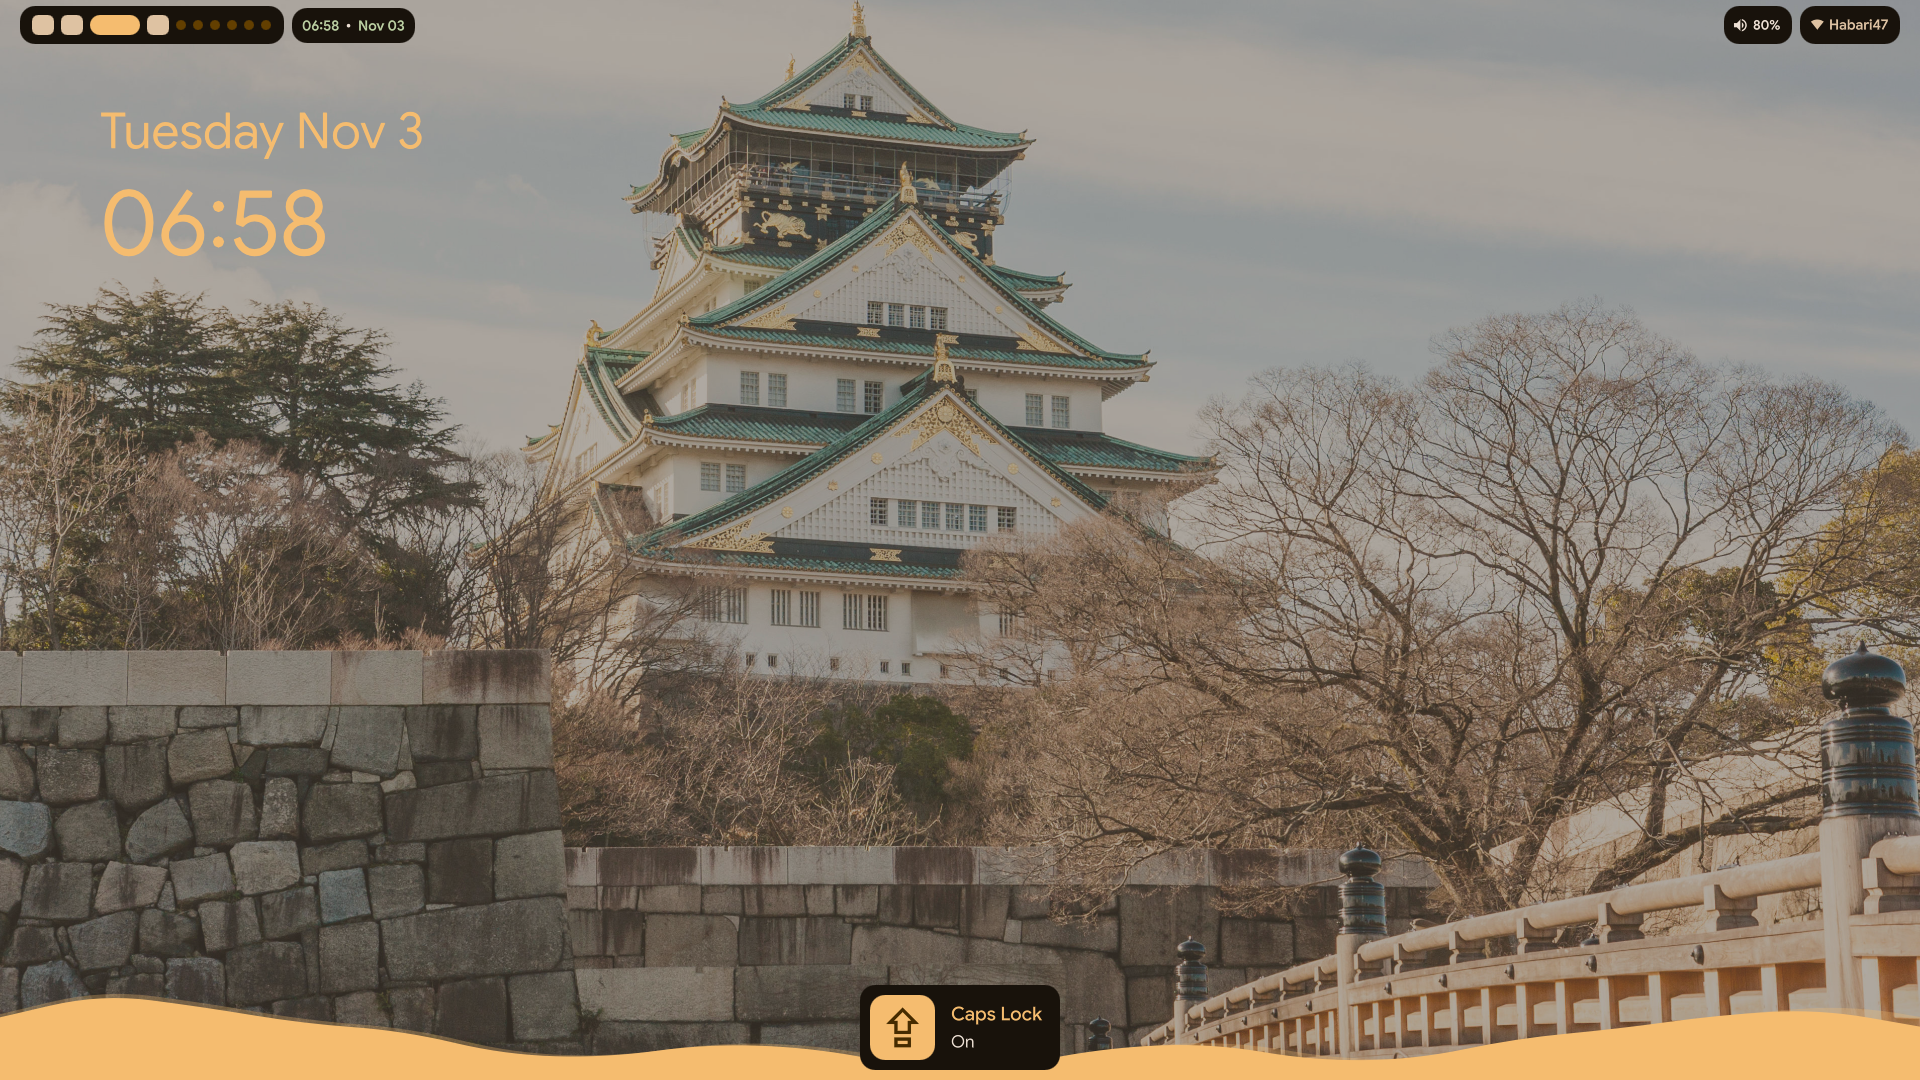
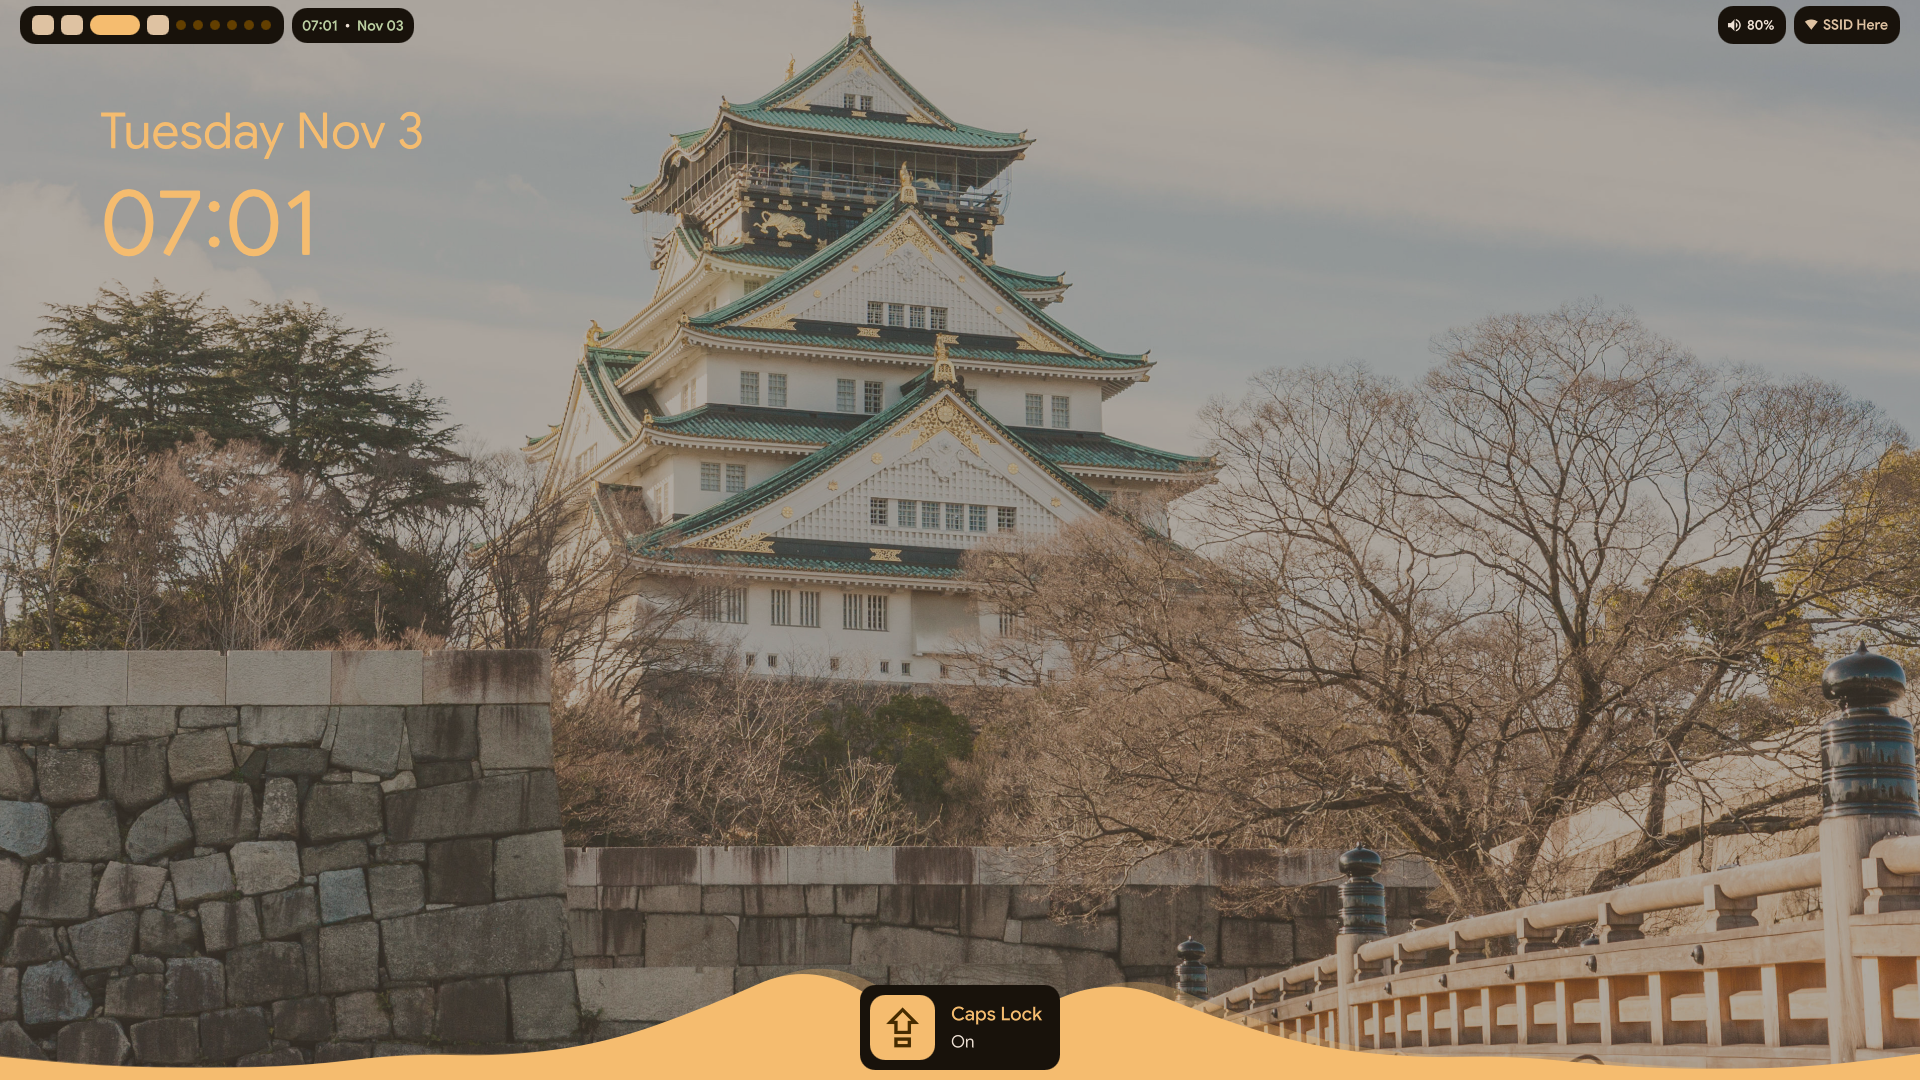
Change font weight

diff --git a/Modules/Clock.qml b/Modules/Clock.qml
@@ -20,7 +20,7 @@ import qs
                  family: "Google Sans"
                  letterSpacing: 0
                  pixelSize: 14
-                 weight: 600
+                 weight: 500
                 }   
             SystemClock {
                  id: clock 
@@ -40,7 +40,7 @@ import qs
                  family: "Google Sans"
                  letterSpacing: 0
                  pixelSize: 14
-                 weight: 600
+                 weight: 500
                 }   
             }
 	  }

diff --git a/Modules/Volume.qml b/Modules/Volume.qml
@@ -57,7 +57,7 @@ RowLayout {
         font {
             family: "JetBrainsMono Nerd Font Propo"
             pixelSize: 17
-            weight: 600
+            weight: 500
         }
 
         Behavior on color {

diff --git a/Modules/Network.qml b/Modules/Network.qml
@@ -62,7 +62,7 @@ Rectangle {
 
             font {
                 family: "Google Sans"
-                weight: 600
+                weight: 500
                 pixelSize: 14
             }
 
